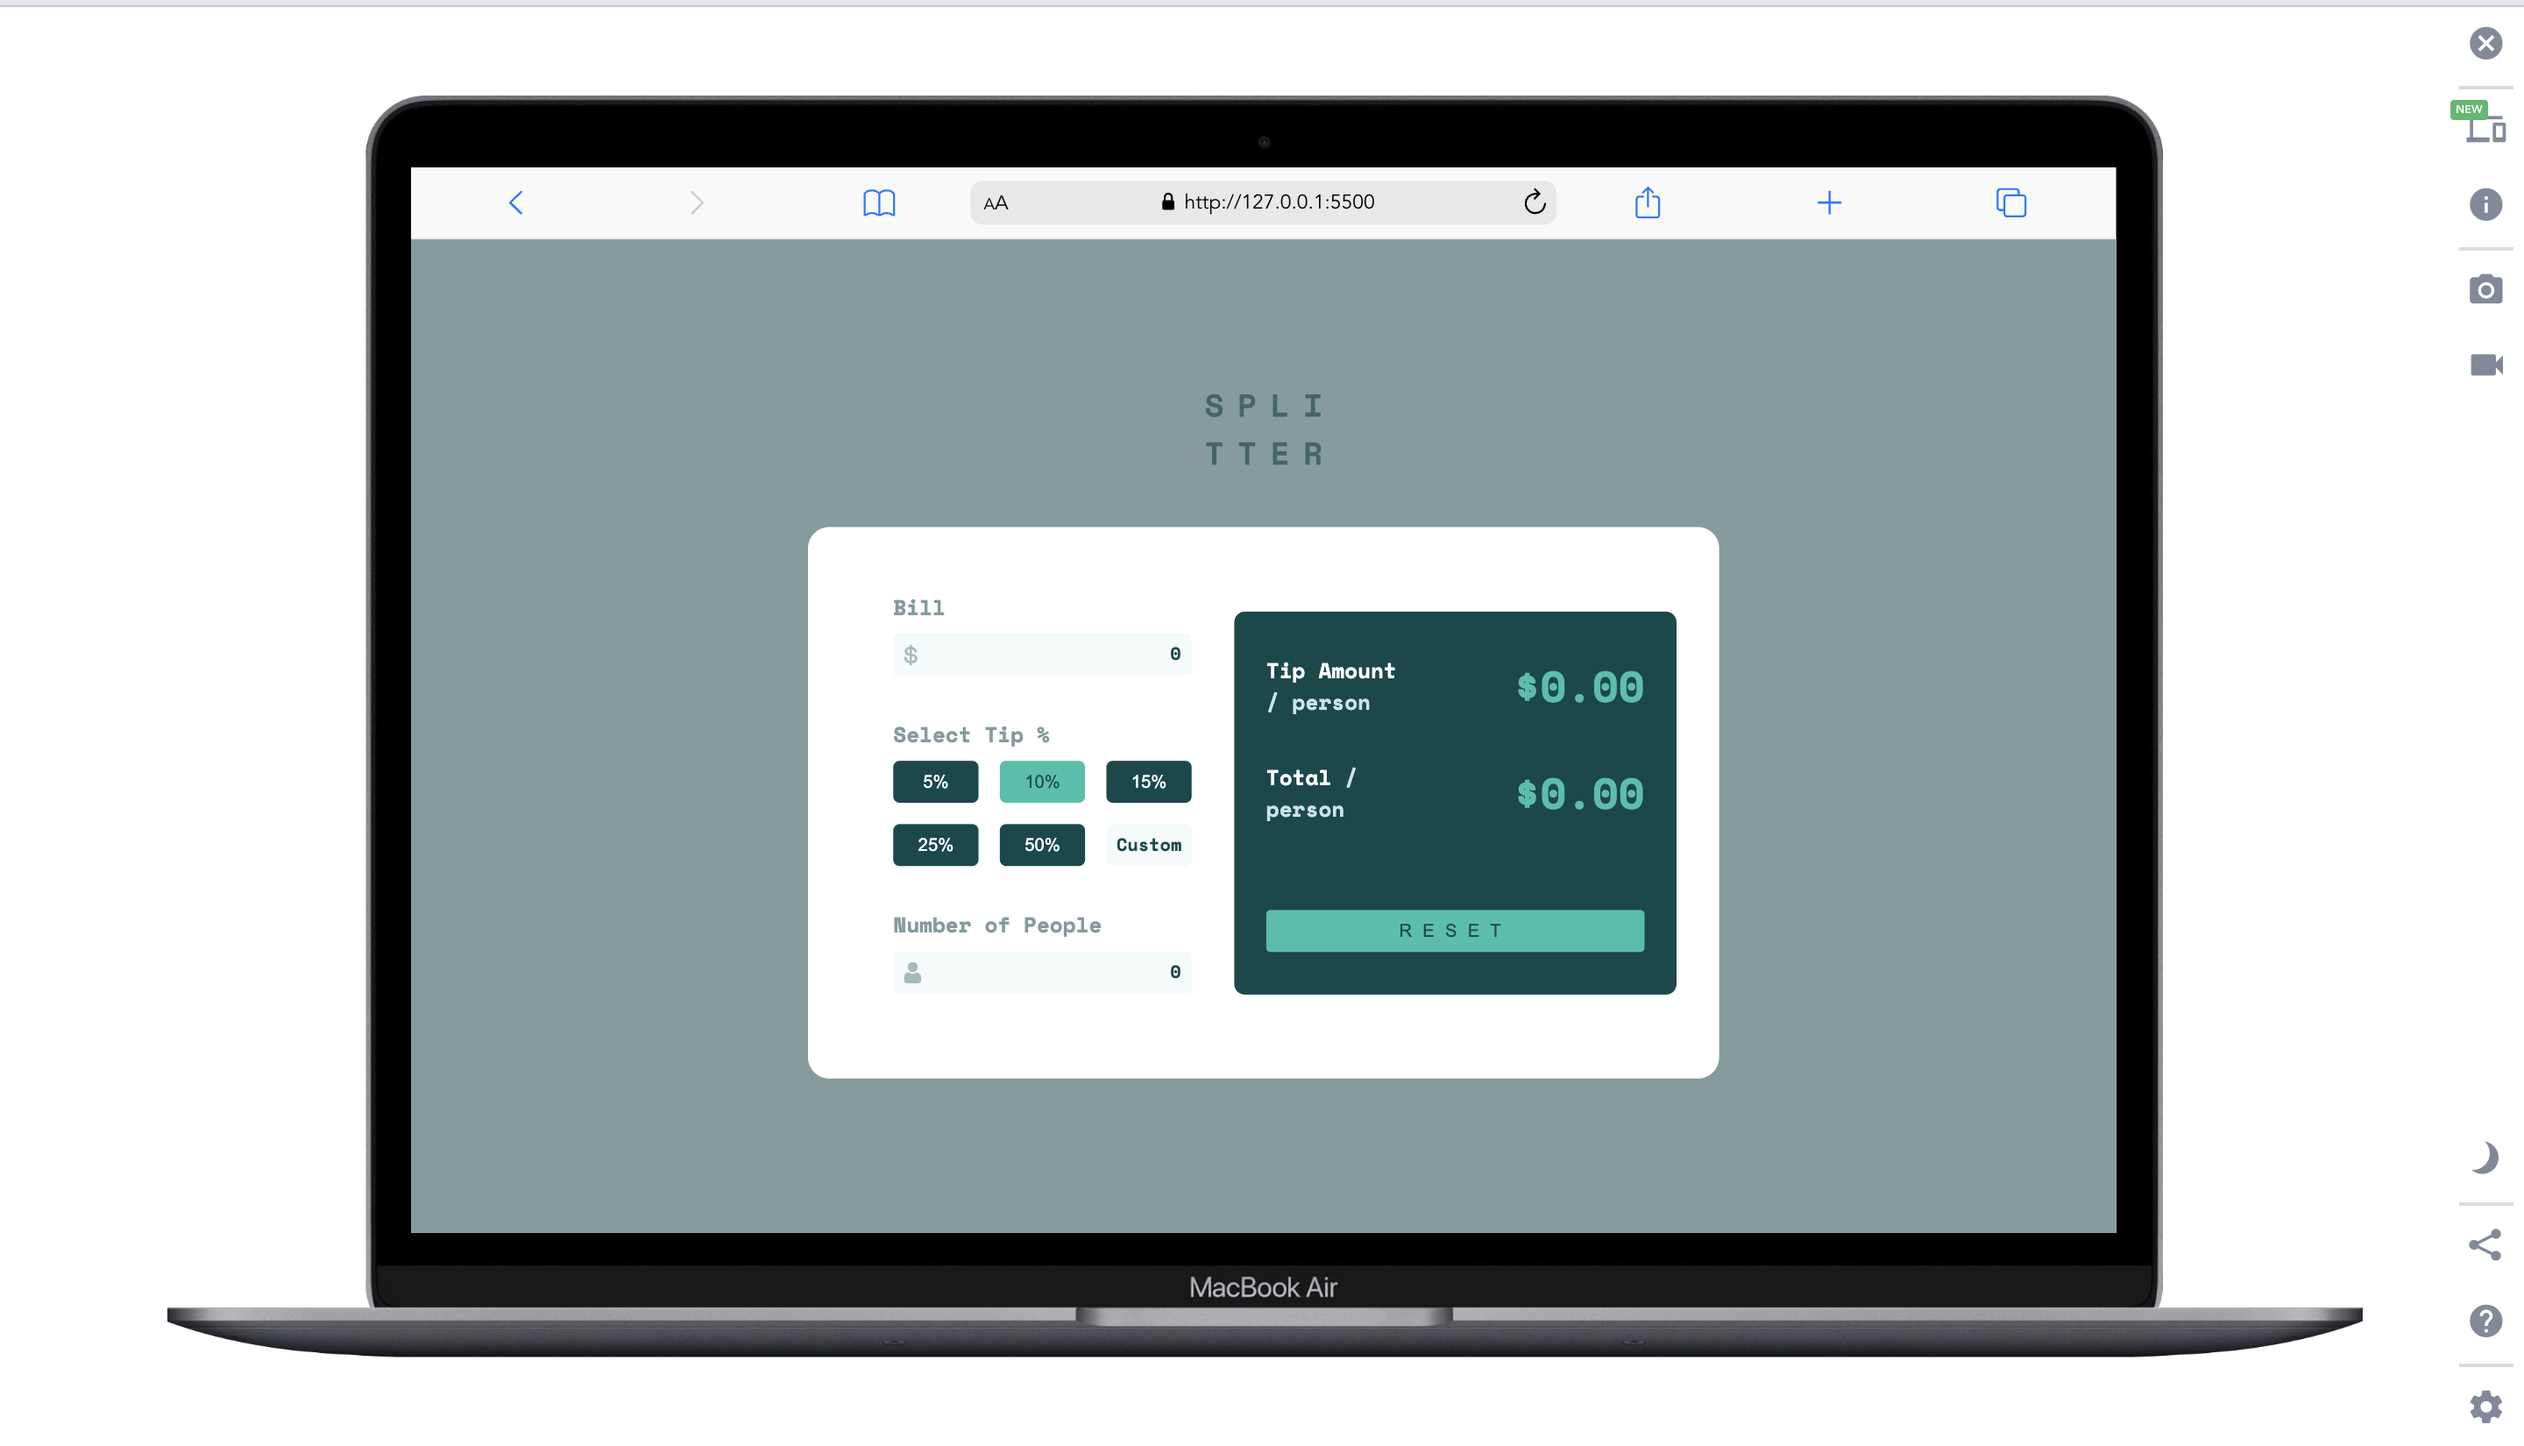
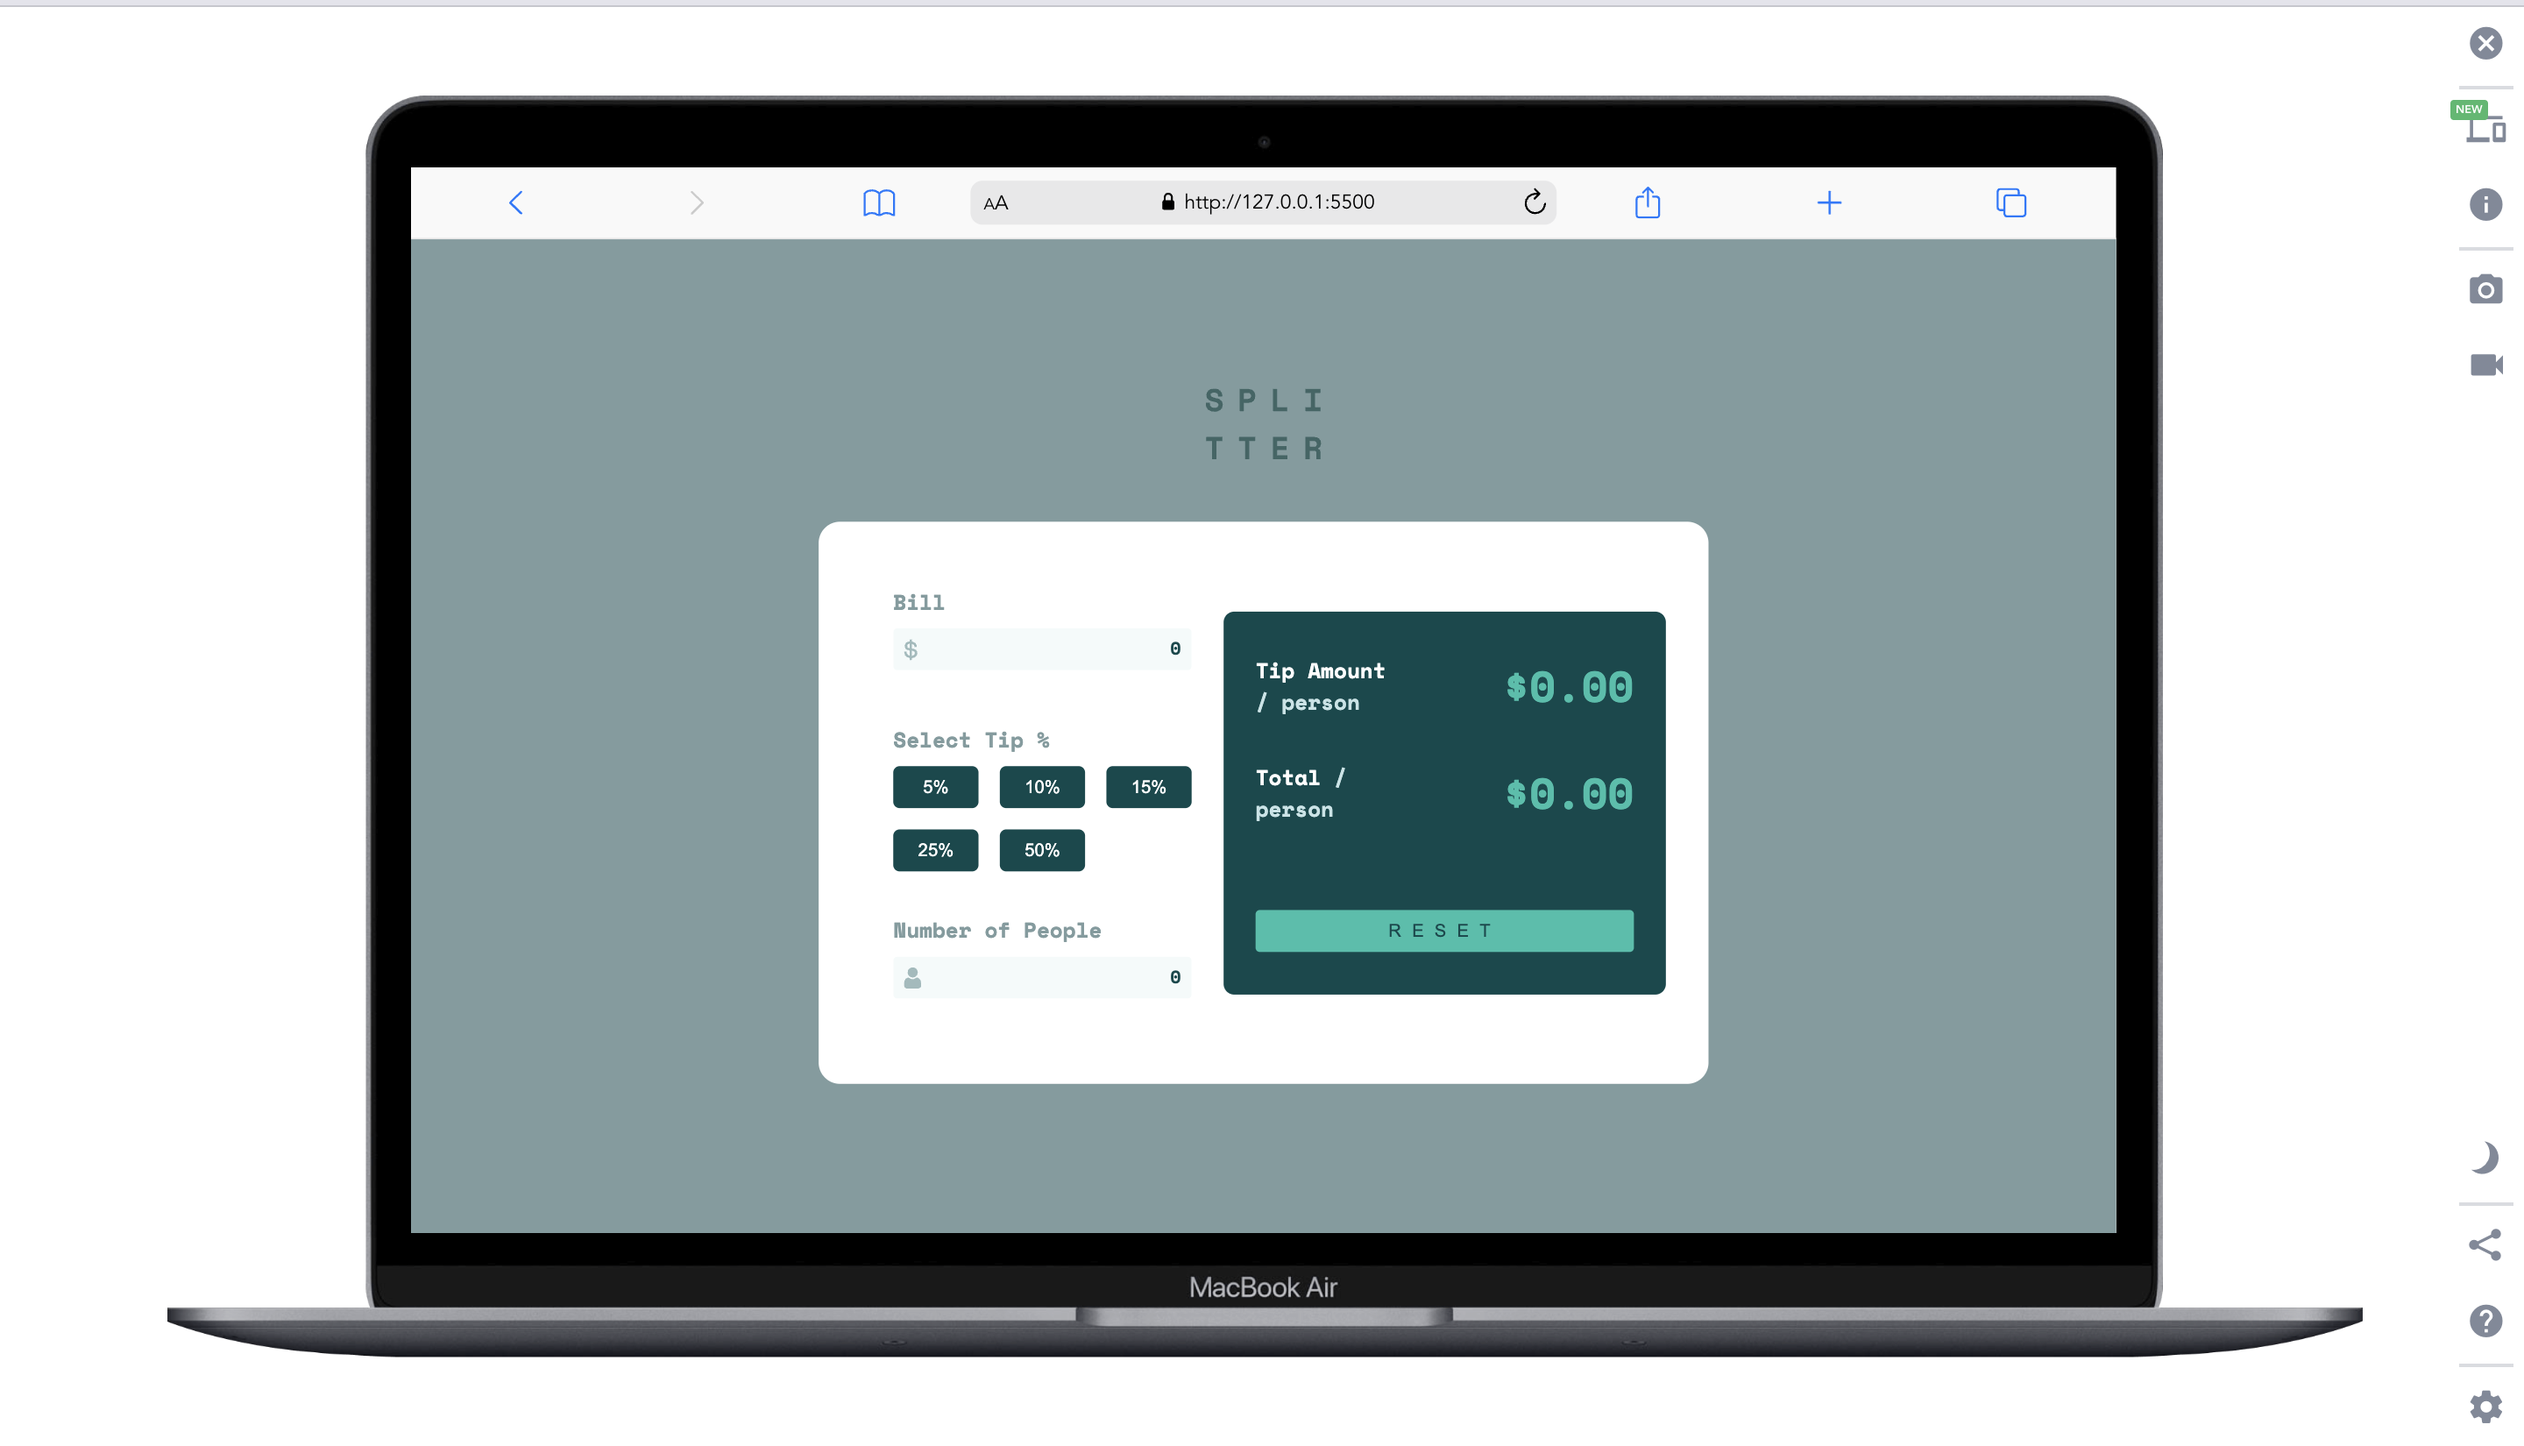
Javascript logic done and minor layout changes

diff --git a/script.js b/script.js
@@ -3,56 +3,78 @@ const tipItems = document.querySelector('.tip-items')
 const peopleInput = document
   .querySelector('.people-input')
   .querySelector('input')
-const amountDisplay = document.querySelector('.amount-display')
-const totalDisplay = document.querySelector('.tip-display')
+
 const resetButton = document
   .getElementById('tip-display')
   .querySelector('button')
 const calcContainer = document.getElementById('calculator-container')
 const tipButtons = tipItems.querySelectorAll('button')
-const customTip = tipItems.querySelector('input')
+const tipAmount = document.querySelector('.amount-display')
+const totalAmount = document.querySelector('.total-display')
 
 function validateInput() {
+  let boolFlag = false
+
   if (billInput.value == '') {
     document.querySelector('.error-bill').innerText = `Can't be 0`
+    boolFlag = false
   } else {
     document.querySelector('.error-bill').innerText = ``
+    boolFlag = true
   }
 
   if (peopleInput.value == '') {
     document.querySelector('.error-people').innerText = `Can't be 0`
+    boolFlag = false
   } else {
     document.querySelector('.error-people').innerText = ``
+    boolFlag = true
   }
+
+  return boolFlag
+}
+
+function calcAmountPerPerson(bill, people, tip) {
+  tip = Number(tip.slice(0, tip.length - 1))
+  const finalBill = (bill + bill * (tip / 100)) / people
+  return finalBill.toFixed(2)
+}
+
+function calcTipPerPerson(bill, people, tip) {
+  tip = Number(tip.slice(0, tip.length - 1))
+  const finalTip = (bill * (tip / 100)) / people
+
+  return finalTip.toFixed(2)
 }
 
 function calculateTip(e) {
-  validateInput()
-  
+  const boolFlag = validateInput()
+
+  if (boolFlag) {
+    const amountPerPerson = calcAmountPerPerson(
+      Number(billInput.value),
+      Number(peopleInput.value),
+      e.target.innerText
+    )
+
+    const tipPerPerson = calcTipPerPerson(
+      Number(billInput.value),
+      Number(peopleInput.value),
+      e.target.innerText
+    )
+
+    totalAmount.querySelector('h1').innerText = `$${amountPerPerson}`
+    tipAmount.querySelector('h1').innerText = `$${tipPerPerson}`
+
+    billInput.value = ''
+    peopleInput.value = ''
+  }
+}
+
+function resetDisplay() {
+  totalAmount.querySelector('h1').innerText = '$0.00'
+  tipAmount.querySelector('h1').innerText = '$0.00'
 }
 
 tipItems.addEventListener('click', calculateTip)
-
-// This approach where we are creating a p element for missing input and deleting the p input when the input is missing is not working. Why?
-/**
- * const billError = document.createElement('p')
-  const peopleError = document.createElement('p')
-
-  if (billInput.value == '') {
-    billError.innerText = `Can't be 0`
-    billError.setAttribute('class', 'error-bill')
-    document.querySelector('.bill-input').appendChild(billError)
-    console.log(billError.parentElement);
-  } else {
-    console.log(billError.parentElement);
-    billError.remove()
-  }
-
-  if (peopleInput.value == '') {
-    peopleError.innerText = `Can't be 0`
-    peopleError.setAttribute('class', 'error-people')
-    document.querySelector('.people-input').appendChild(peopleError)
-  } else {
-    parentError.remove
-  }
- */
+resetButton.addEventListener('click', resetDisplay)

diff --git a/style.css b/style.css
@@ -40,7 +40,6 @@ main {
   padding: 2rem;
   background-color: var(--White);
   border-radius: 1rem;
-  width: 70%;
 }
 
 #tip-form {
@@ -107,21 +106,6 @@ main {
 .tip-items > button:hover {
   background-color: var(--Strong-cyan);
   color: var(--Very-dark-cyan);
-}
-
-.tip-items > input {
-  text-align: right;
-  padding: 0.5rem 0;
-  border-radius: 0.3rem;
-  border: none;
-  background-color: var(--Very-light-grayish-cyan);
-  color: var(--Very-dark-cyan);
-}
-
-.tip-items > input::placeholder {
-  color: var(--Very-dark-cyan);
-  font-family: 'Space Mono', monospace;
-  text-align: center;
 }
 
 .people-input {

diff --git a/index.html b/index.html
@@ -33,7 +33,6 @@
             <button>15%</button>
             <button>25%</button>
             <button>50%</button>
-            <input type="text" placeholder="Custom">
           </div>
         </div>
 

diff --git a/README.md b/README.md
@@ -10,9 +10,6 @@ This is a solution to the [Tip calculator app challenge on Frontend Mentor](http
   - [Links](#links)
 - [My process](#my-process)
   - [Built with](#built-with)
-  - [What I learned](#what-i-learned)
-  - [Continued development](#continued-development)
-  - [Useful resources](#useful-resources)
 - [Author](#author)
 - [Acknowledgments](#acknowledgments)
 
@@ -32,11 +29,10 @@ Users should be able to:
 ![Tablet](screenshots/Tablet.png)
 ![Mobile](screenshots/Mobile.png)
 
-
 ### Links
 
-- Solution URL: [Github](https://your-solution-url.com)
-- Live Site URL: [Add live site URL here](https://your-live-site-url.com)
+- Solution URL: [Github](https://github.com/Aayush895/Tip-Calculator)
+- Live Site URL: [Netlify](https://your-live-site-url.com)
 
 ## My process
 
@@ -48,43 +44,6 @@ Users should be able to:
 - CSS Grid
 - Mobile-first workflow
 - Vanilla Javascript
-
-### What I learned
-
-Use this section to recap over some of your major learnings while working through this project. Writing these out and providing code samples of areas you want to highlight is a great way to reinforce your own knowledge.
-
-To see how you can add code snippets, see below:
-
-```html
-<h1>Some HTML code I'm proud of</h1>
-```
-```css
-.proud-of-this-css {
-  color: papayawhip;
-}
-```
-```js
-const proudOfThisFunc = () => {
-  console.log('🎉')
-}
-```
-
-If you want more help with writing markdown, we'd recommend checking out [The Markdown Guide](https://www.markdownguide.org/) to learn more.
-
-**Note: Delete this note and the content within this section and replace with your own learnings.**
-
-### Continued development
-
-Use this section to outline areas that you want to continue focusing on in future projects. These could be concepts you're still not completely comfortable with or techniques you found useful that you want to refine and perfect.
-
-**Note: Delete this note and the content within this section and replace with your own plans for continued development.**
-
-### Useful resources
-
-- [Example resource 1](https://www.example.com) - This helped me for XYZ reason. I really liked this pattern and will use it going forward.
-- [Example resource 2](https://www.example.com) - This is an amazing article which helped me finally understand XYZ. I'd recommend it to anyone still learning this concept.
-
-**Note: Delete this note and replace the list above with resources that helped you during the challenge. These could come in handy for anyone viewing your solution or for yourself when you look back on this project in the future.**
 
 ## Author
 
